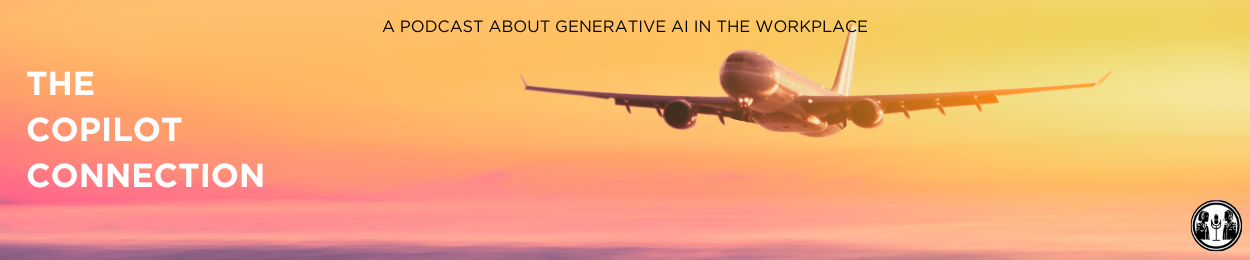
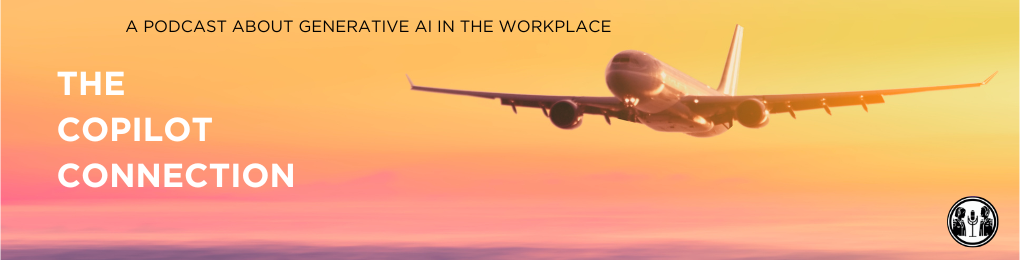
Fixed the header layout Added a news page

diff --git a/src/lib/utils/sortFunctions.ts b/src/lib/utils/sortFunctions.ts
@@ -8,6 +8,15 @@ export const sortByDate = (array: any[]) => {
   return sortedArray;
 };
 
+export const sortPodByDate = (array: any[]) => {
+  const sortedArray = array.sort(
+    (a:any, b:any) =>
+      new Date(b.published_at && b.published_at) -
+      new Date(a.published_at && a.published_at)
+  );
+  return sortedArray;
+};
+
 // sort product by weight
 export const sortByWeight = (array: any[]) => {
   const withWeight = array.filter(

diff --git a/src/styles/navigation.scss b/src/styles/navigation.scss
@@ -46,6 +46,8 @@ input#nav-toggle:checked ~ #nav-menu {
 
 .nav-banner {
   background-image: url('/images/banner.png');
+  background-position: center;
+  background-repeat: no-repeat;
   height: 250px;
 }
 
